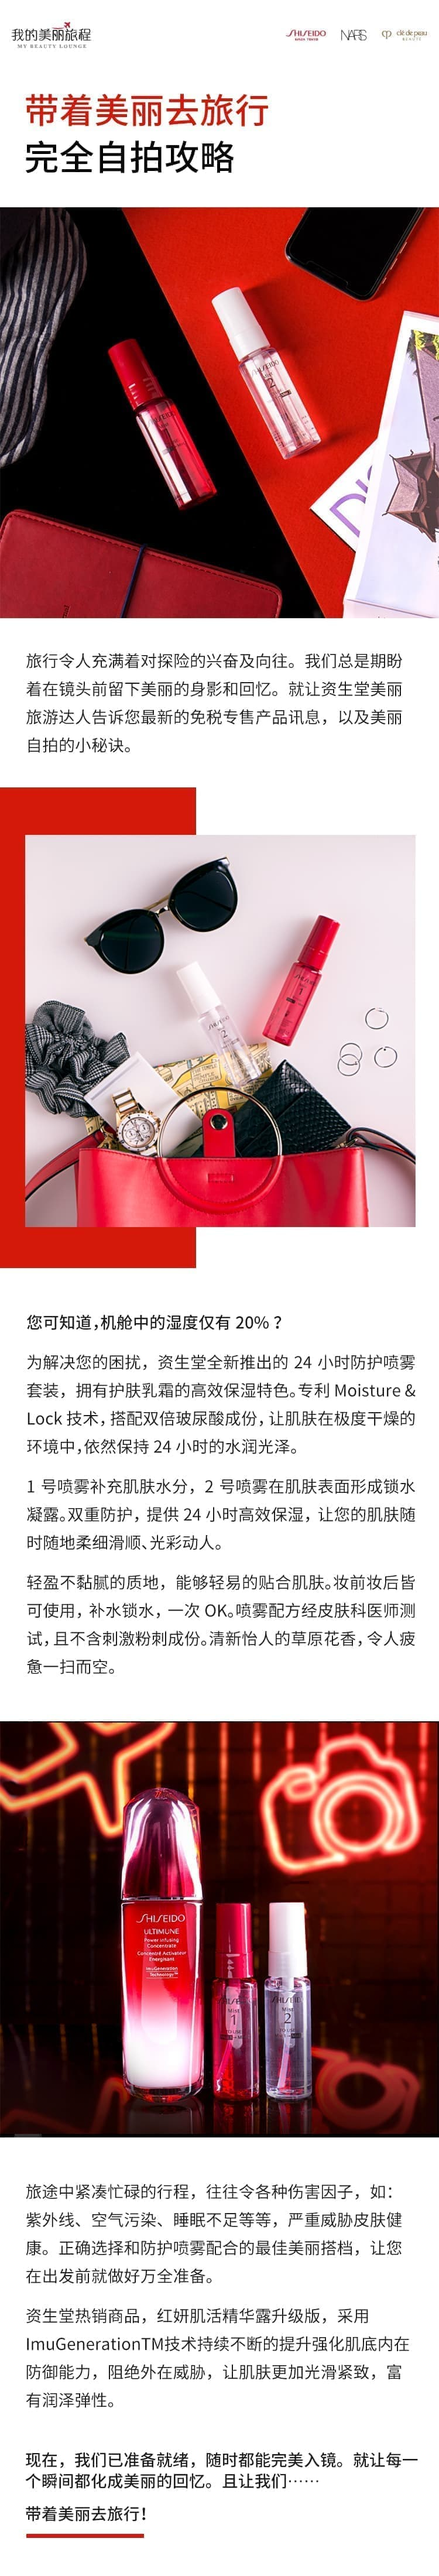
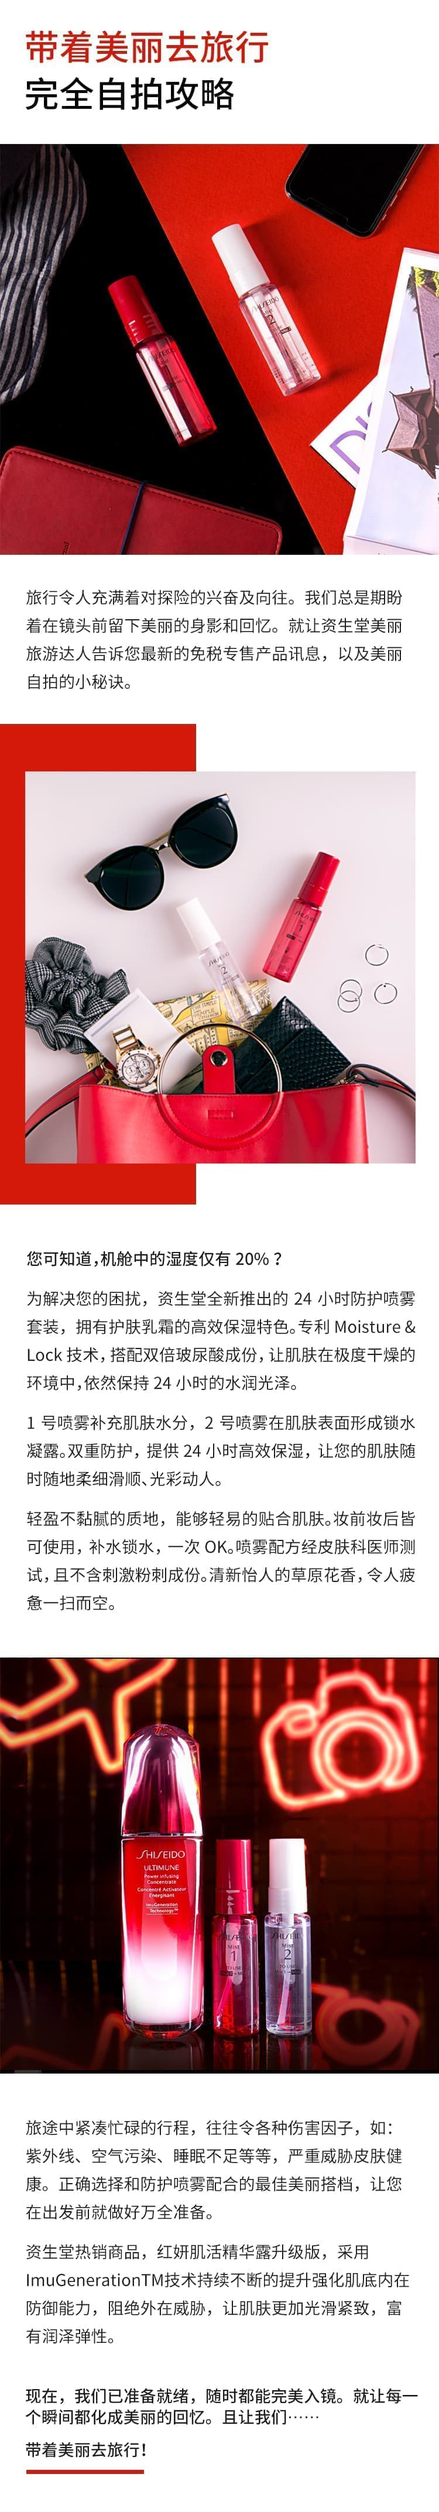
样式微调

diff --git a/1/jj-nice-travel/2.html b/1/jj-nice-travel/2.html
@@ -38,10 +38,19 @@
 <body>
 <div class="container pc">
   <header class="header">
-    <img src="img/header.png" class="img-fluid">
+    <div class="">
+      <img src="img/header.png" class="img-fluid">
+    </div>
   </header>
   <img src="img/2/pc.jpg" class="img-fluid">
 </div>
-<!-- <img src="img/2/mobile.jpg" class="img-fluid mobile"> -->
+<!-- <div class="mobile">
+  <header class="header">
+    <div class="">
+      <img src="img/header.png" class="img-fluid">
+    </div>
+  </header>
+  <img src="img/2/mobile.jpg" class="img-fluid">
+</div> -->
 </body>
 </html>

diff --git a/1/jj-nice-travel/1.html b/1/jj-nice-travel/1.html
@@ -44,6 +44,13 @@
   </header>
   <img src="img/1/pc.jpg" class="img-fluid">
 </div>
-<img src="img/1/mobile.jpg" class="img-fluid mobile">
+<div class="mobile">
+  <header class="header">
+    <div class="">
+      <img src="img/header.png" class="img-fluid">
+    </div>
+  </header>
+  <img src="img/1/mobile.jpg" class="img-fluid">
+</div>
 </body>
 </html>

diff --git a/1/jj-nice-travel/3.html b/1/jj-nice-travel/3.html
@@ -44,9 +44,9 @@
   </header>
   <img src="img/3/pc.jpg" class="img-fluid">
 </div>
-<div class="container mobile">
+<div class="mobile">
   <header class="header">
-    <div class="container">
+    <div class="">
       <img src="img/header.png" class="img-fluid">
     </div>
   </header>
